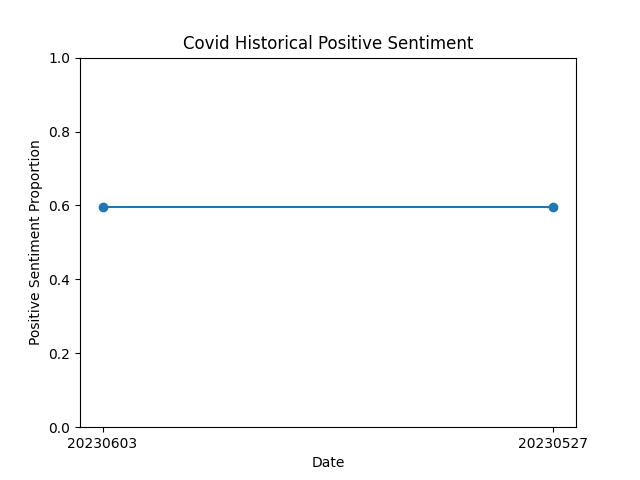
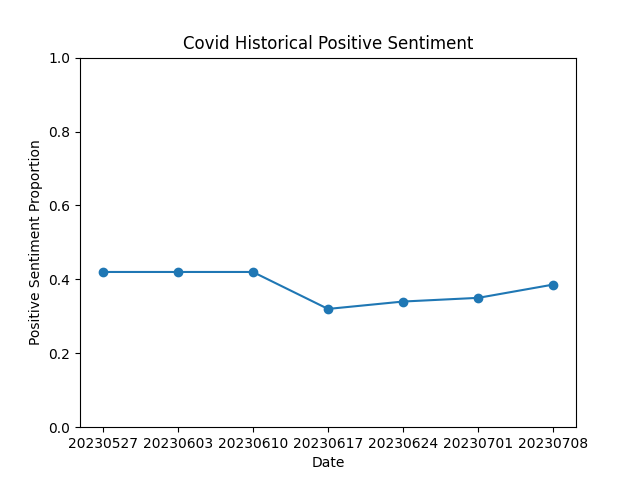
Generate simulated data, updated app images and added note to app home page indicating use of simulated data.

diff --git a/src/birdwatcher/summarize/PostProcessor.py b/src/birdwatcher/summarize/PostProcessor.py
@@ -15,9 +15,9 @@ from birdwatcher.config import PATHS, SUMMARIZE_CONFIG
 from birdwatcher.ml.inference import _get_scores_save_path
 from birdwatcher.s3_utils import s3_save_pickle, s3_load_pickle
 from birdwatcher.summarize.post_processing_utils import (
-    _generate_history_line_graph,
     _generate_sentiment_distribution,
     _generate_sentiment_pie_chart,
+    _load_recent_postprocessors,
     SentimentDistribution,
     SentimentLineGraph,
     SentimentPieChart
@@ -116,6 +116,46 @@ class PostProcessor:
             )
         return
     
+    def _generate_history_line_graph(
+        self,
+        data_key: str,
+        params: dict
+    ) -> SentimentLineGraph:
+        """
+        Generate a historical line graph of positive sentiment.
+        """
+        post_processor_list = _load_recent_postprocessors(
+            max_return=params["max_records"]
+        )
+        post_processor_list.insert(0, self)
+        positive_list = [
+            (pp.distributions[data_key].num_positive / (
+                pp.distributions[data_key].num_negative +
+                pp.distributions[data_key].num_positive
+            ))
+            for pp in post_processor_list 
+        ]
+        positive_list.reverse()
+        date_list = [
+            pp.end_date_name for pp in post_processor_list
+        ]
+        date_list.reverse()
+        title = (
+            params["title"].format(data_key=data_key).replace("_", " ").title()
+        )
+
+        fig = plt.figure()
+        plt.plot(date_list, positive_list, marker=params["marker"])
+        plt.ylim(params["ylim"])
+        plt.xlabel(params["xlabel"])
+        plt.ylabel(params["ylabel"])
+        plt.title(title)
+        return SentimentLineGraph(
+            fig=fig,
+            positive_list=positive_list,
+            date_list=date_list
+        )
+    
     def _update_line_graph(
         self,
         data_key: str,
@@ -137,7 +177,7 @@ class PostProcessor:
             _logger.info(
                 f"Updating line graph for data_key: {data_key}."
             )
-        self.line_graphs[data_key] = _generate_history_line_graph(
+        self.line_graphs[data_key] = self._generate_history_line_graph(
             data_key=data_key,
             params=line_graph_params
         )

diff --git a/src/birdwatcher/summarize/post_processing_utils.py b/src/birdwatcher/summarize/post_processing_utils.py
@@ -125,7 +125,11 @@ def _load_recent_postprocessors(
         path=PATHS.post_processing_path,
         pattern="PostProcessor_",
         file_extensions=[".pkl"]
-    )["PostProcessor_"]
+    )
+    if post_processor_path_list:
+        post_processor_path_list = post_processor_path_list["PostProcessor_"]
+    else:
+        post_processor_path_list = []
     post_processor_path_list.sort(reverse=True)
     
     if max_return:
@@ -140,40 +144,3 @@ def _load_recent_postprocessors(
             for pp in post_processor_path_list
         ]
     return post_processor_list
-
-
-def _generate_history_line_graph(
-    data_key: str,
-    params: dict
-) -> SentimentLineGraph:
-    """
-    Generate a historical line graph of positive sentiment.
-    """
-    post_processor_list = _load_recent_postprocessors(
-        max_return=params["max_records"]
-    )
-    positive_list = [
-        (pp.distributions[data_key].num_positive / (
-            pp.distributions[data_key].num_negative +
-            pp.distributions[data_key].num_positive
-        ))
-        for pp in post_processor_list 
-    ]
-    date_list = [
-        pp.end_date_name for pp in post_processor_list
-    ]
-    title = (
-        params["title"].format(data_key=data_key).replace("_", " ").title()
-    )
-
-    fig = plt.figure()
-    plt.plot(date_list, positive_list, marker=params["marker"])
-    plt.ylim(params["ylim"])
-    plt.xlabel(params["xlabel"])
-    plt.ylabel(params["ylabel"])
-    plt.title(title)
-    return SentimentLineGraph(
-        fig=fig,
-        positive_list=positive_list,
-        date_list=date_list
-    )

diff --git a/app/Home.py b/app/Home.py
@@ -33,6 +33,11 @@ sentiment classification scores on the "Model Inference Access" page!
 
 The source code for both the sentiment analysis pipeline and app
 front-end can be found in my GitHub: [twitter-sentiment-analysis](https://github.com/BobbyLumpkin/twitter-sentiment-analysis/tree/main)
+
+<hr>
+
+**<span style="color: red;"><u>NOTE:</u></span>** Due to the change in twitter's API access policies, the
+visualizations featured here are based on simulated data.
 """
 
 # Set the main page config.
@@ -45,7 +50,7 @@ st.set_page_config(
 col1, col2 = st.columns([7, 3])
 
 with col1:
-    st.write(HOME_PAGE_MARKDOWN)
+    st.write(HOME_PAGE_MARKDOWN, unsafe_allow_html=True)
 
 with col2:
     st.image(Image.open("./images/icon.png"))
